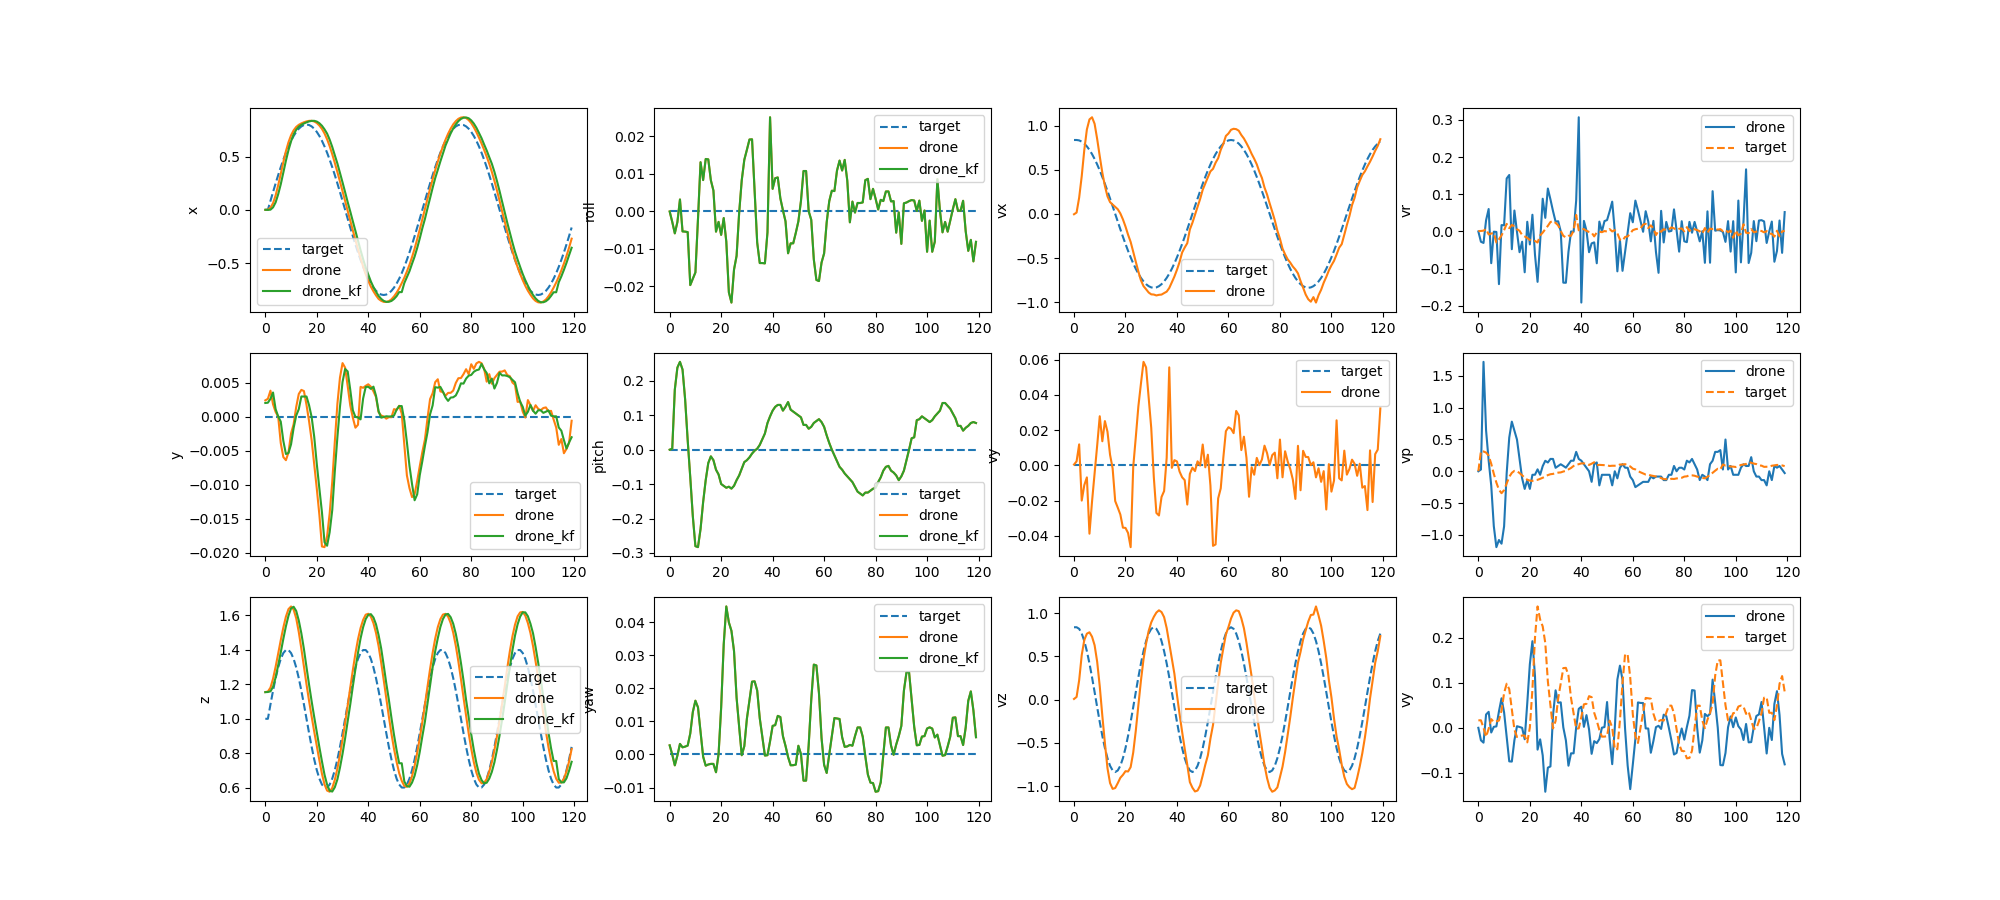
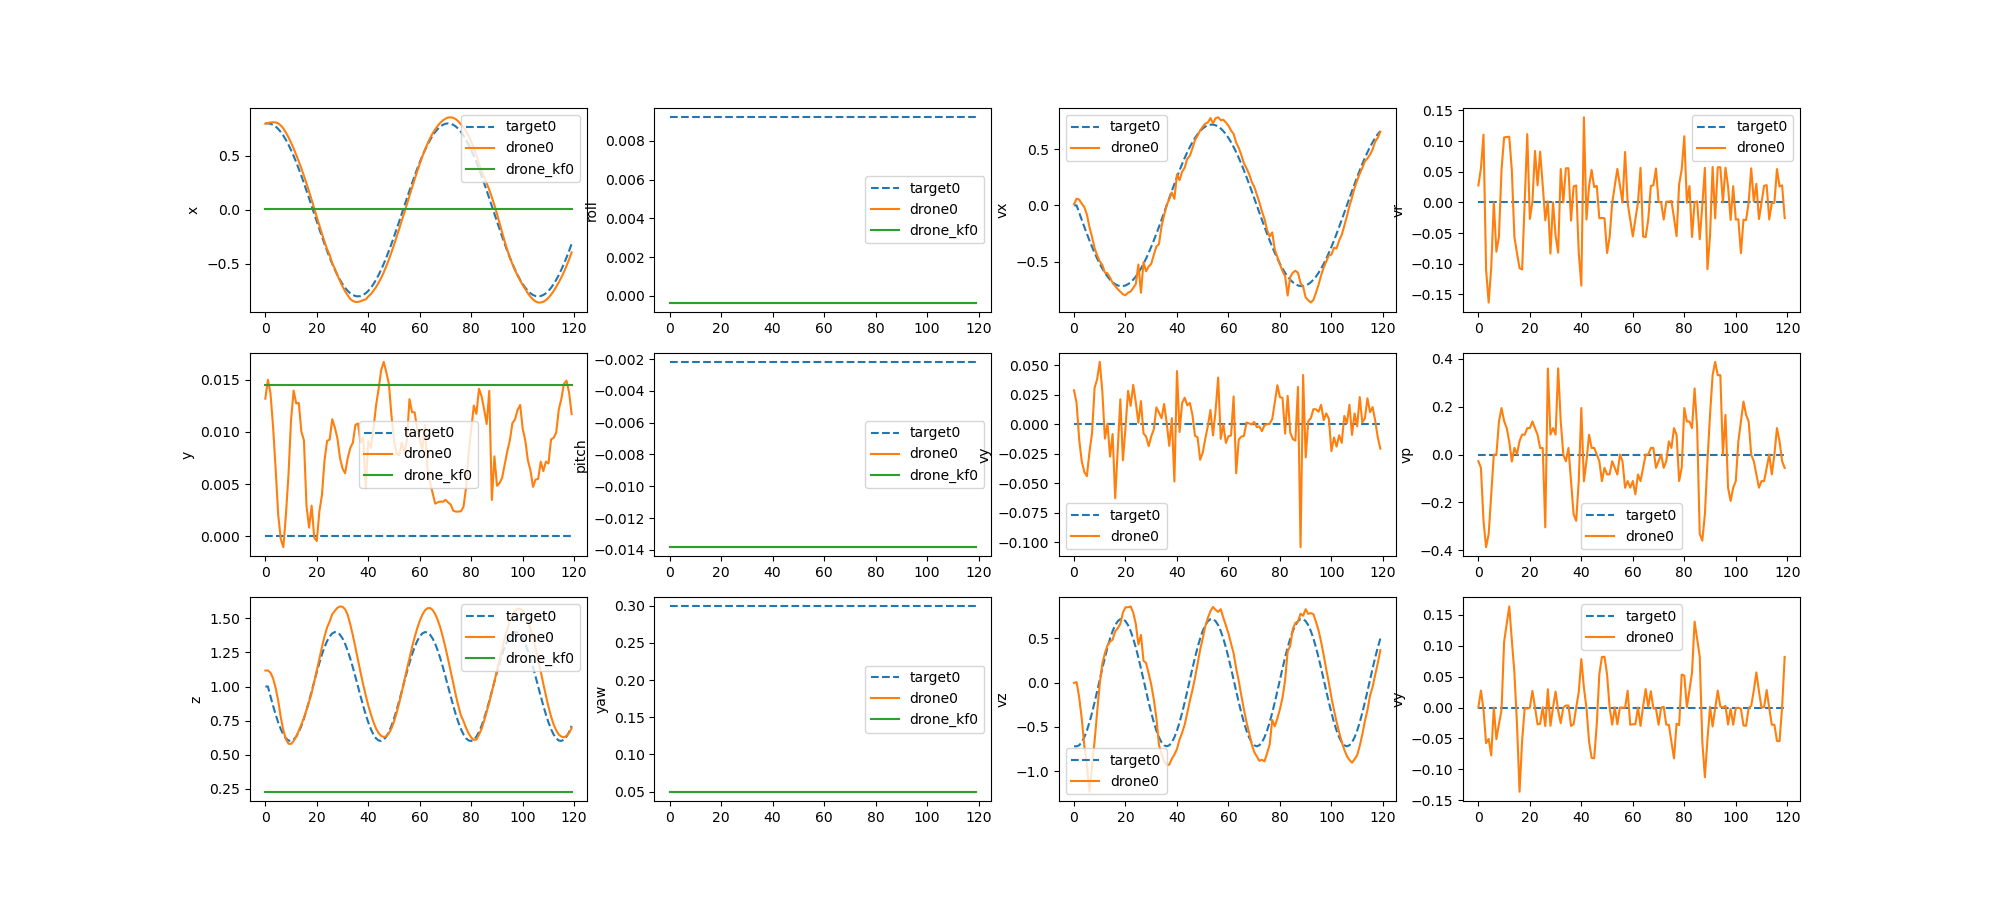
:zap: add multi-trajectory plotter

diff --git a/src/crazyswarm2/crazyflie_examples/crazyflie_examples/attitude_ctl.py b/src/crazyswarm2/crazyflie_examples/crazyflie_examples/attitude_ctl.py
@@ -199,7 +199,7 @@ class Crazyflie:
             target_pitch_rate = action[1]
             target_yaw_rate = action[2]
             # self.rpy_target = np.array([target_roll, target_pitch, target_yaw_rate])
-            self.vrpy_target = np.array([target_roll_rate, target_pitch_rate, target_yaw_rate])
+            self.rpy_target[i] = np.array([target_roll_rate, target_pitch_rate, target_yaw_rate])
             target_thrust = action[3]
             self.allcfs.crazyflies[i].cmdVelLegacy(roll=target_roll_rate/np.pi*180, pitch=target_pitch_rate/np.pi*180, yaw_rate=target_yaw_rate/np.pi*180, thrust=self.thrust2cmd(target_thrust))
         self.timeHelper.sleepForRate(self.rate)
@@ -284,15 +284,15 @@ class Crazyflie:
         return np.array(actions)
 
     def _generate_traj(self):
-        base_w = 2 * np.pi / 6.0
+        base_w = 2 * np.pi / 7.0
         t = np.arange(0, int(self.traj_timelimit*self.rate)) / self.rate
         t = np.tile(t, (3,1)).transpose()
         traj_xyz = np.zeros((self.cf_num, len(t), 3))
         traj_vxyz = np.zeros((self.cf_num, len(t), 3))
 
-        As = np.array([[0.8, 0.0, 0.4], [0.0, 0.8, 0.4], [0.4, 0.4, 0.0]])
-        ws = np.array([[base_w, base_w, base_w*2.0]]*2)
-        phases = np.array([[0,0,0], [0.0, np.pi/2, np.pi], [0.0, 0.0, 0.0]])
+        As = np.array([[0.8, 0.0, 0.4], [0.8, 0.0, 0.4], [0.4, 0.4, 0.0]])
+        ws = np.array([[base_w, base_w, base_w*2.0], [base_w, base_w, base_w*2.0], [base_w*2.0, base_w*2.0, base_w]])
+        phases = np.array([[np.pi/2,0,np.pi], [0.0, np.pi/2, np.pi], [0.0, np.pi/2, 0.0]])
 
         for i in range(self.cf_num):
             A = As[i]
@@ -300,7 +300,7 @@ class Crazyflie:
             phase = phases[i]
             traj_xyz[i] = A * np.sin(t*w+phase)
             traj_vxyz[i] = w * A * np.cos(t*w+phase)
-            traj_xyz[i] = self.world_center
+            traj_xyz[i] += self.world_center
 
         return traj_xyz, traj_vxyz
 
@@ -344,67 +344,47 @@ class Logger():
 
         # plot
         # create 3*4 subplot
+        cf_num = self.xyz_target.shape[1]
         fig, axs = plt.subplots(nrows=3, ncols=4, figsize=(20, 9))
         title_list = ['x','y','z']
         for i in range(3):
             ax = axs[i, 0]
-            ax.plot(self.xyz_target[:, i], label='target', linestyle='--')
-            ax.plot(self.xyz_drone[:, i], label='drone')
-            ax.plot(self.xyz_drone_kf[:, i], label='drone_kf')
+            for j in range(cf_num):
+                ax.plot(self.xyz_target[:, j, i], label=f'target{j}', linestyle='--')
+                ax.plot(self.xyz_drone[:, j, i], label=f'drone{j}')
+                ax.plot(self.xyz_drone_kf[:, j, i], label=f'drone_kf{j}')
             ax.set_ylabel(title_list[i])
             ax.legend()
         title_list = ['roll', 'pitch', 'yaw']
         for i in range(3):
             ax = axs[i, 1]
-            ax.plot(self.rpy_target[:, i], label='target', linestyle='--')
-            ax.plot(self.rpy_drone[:, i], label='drone')
-            ax.plot(self.rpy_drone_kf[:, i], label='drone_kf')
+            for j in range(cf_num):
+                ax.plot(self.rpy_target[:, j, i], label=f'target{j}', linestyle='--')
+                ax.plot(self.rpy_drone[:, j, i], label=f'drone{j}')
+                ax.plot(self.rpy_drone_kf[:, j, i], label=f'drone_kf{j}')
             ax.set_ylabel(title_list[i])
             ax.legend()
         title_list = ['vx', 'vy', 'vz']
         for i in range(3):
             ax = axs[i, 2]
-            ax.plot(self.vxyz_target[:, i], label='target', linestyle='--')
-            ax.plot(self.vxyz_drone[:, i], label='drone')
+            for j in range(cf_num):
+                ax.plot(self.vxyz_target[:, j, i], label=f'target{j}', linestyle='--')
+                ax.plot(self.vxyz_drone[:, j, i], label=f'drone{j}')
             ax.set_ylabel(title_list[i])
             ax.legend()
         title_list = ['vr', 'vp', 'vy']
         for i in range(3):
             ax = axs[i, 3]
-            ax.plot(self.vrpy_drone[:, i], label='drone')
-            ax.plot(self.vrpy_target[:, i], label='target', linestyle='--')
+            for j in range(cf_num):
+                ax.plot(self.vrpy_target[:, j, i], label=f'target{j}', linestyle='--')
+                ax.plot(self.vrpy_drone[:, j, i], label=f'drone{j}')
             ax.set_ylabel(title_list[i])
             ax.legend()
 
         # plt.show()
         print('mocap drift fix value: ', -self.rpy_drone.mean(axis=0))
-        plt.savefig('results/plot.png')
+        plt.savefig('/home/pcy/Documents/ros2_ws/src/crazyswarm2/crazyflie_examples/crazyflie_examples/results/plot.png')
 
-        # save all values as a csv file with pandas
-        df = pd.DataFrame({
-            'x_target': self.xyz_target[:, 0],
-            'y_target': self.xyz_target[:, 1],
-            'z_target': self.xyz_target[:, 2],
-            'roll_target': self.rpy_target[:, 0],
-            'pitch_target': self.rpy_target[:, 1],
-            'yaw_target': self.rpy_target[:, 2],
-            'vx_target': self.vxyz_target[:, 0],
-            'vy_target': self.vxyz_target[:, 1],
-            'vz_target': self.vxyz_target[:, 2],
-            'x_drone': self.xyz_drone[:, 0],
-            'y_drone': self.xyz_drone[:, 1],
-            'z_drone': self.xyz_drone[:, 2],
-            'roll_drone': self.rpy_drone[:, 0],
-            'pitch_drone': self.rpy_drone[:, 1],
-            'yaw_drone': self.rpy_drone[:, 2],
-            'vx_drone': self.vxyz_drone[:, 0],
-            'vy_drone': self.vxyz_drone[:, 1],
-            'vz_drone': self.vxyz_drone[:, 2],
-            'vr_drone': self.vrpy_drone[:, 0],
-            'vp_drone': self.vrpy_drone[:, 1],
-            'vy_drone': self.vrpy_drone[:, 2],
-        })
-        df.to_csv('results/data.csv', index=False)
     
 def main():
 
@@ -435,37 +415,38 @@ def main():
         action = cfctl.pid_controller(info) * 1.0
         obs, reward, done, info = cfctl.step(action)
 
-    # target_point = cfctl.traj_xyz[0]
-    # print('go to center', target_point)
-    # for _ in range(int(4.0 * cfctl.rate)):
-    #     info['xyz_target'] = target_point
-    #     info['vxyz_target'] = np.zeros(3)
-    #     action = cfctl.pid_controller(info) * 1.0
-    #     obs, reward, done, info = cfctl.step(action)
+    target_point = cfctl.traj_xyz[:,0]
+    print('go to center', target_point)
+    for _ in range(int(4.0 * cfctl.rate)):
+        info['xyz_target'] = target_point
+        info['vxyz_target'] = np.zeros([cfctl.cf_num, 3])
+        action = cfctl.pid_controller(info) * 1.0
+        obs, reward, done, info = cfctl.step(action)
 
-    # print('main task')
-    # obs, info = cfctl.soft_reset()
-    # for _ in range(int(12.0 * cfctl.rate)):
-    #     # PID controller
-    #     action = cfctl.pid_controller(info) * 1.0
-    #     obs, reward, done, info = cfctl.step(action)
+    print('main task')
+    obs, info = cfctl.soft_reset()
+    for _ in range(int(12.0 * cfctl.rate)):
+        # PID controller
+        action = cfctl.pid_controller(info) * 1.0
+        logger.log(info)
+        obs, reward, done, info = cfctl.step(action)
 
-    # print('to world center...')
-    # for _ in range(int(3.0*cfctl.rate)):
-    #     info['xyz_target'] = cfctl.world_center.copy()
-    #     info['vxyz_target'] = np.zeros(3)
-    #     action = cfctl.pid_controller(info)*1.0
-    #     # logger.log(info)
-    #     obs, reward, done, info = cfctl.step(action)
+    print('to world center...')
+    target_pos = np.array([cfctl.world_center]*cfctl.cf_num)
+    target_pos[:, 0] = np.arange(cfctl.cf_num) - (cfctl.cf_num-1)/2.0
+    for _ in range(int(3.0*cfctl.rate)):
+        info['xyz_target'] = target_pos
+        info['vxyz_target'] = np.zeros(3)
+        action = cfctl.pid_controller(info)*1.0
+        obs, reward, done, info = cfctl.step(action)
 
     print('landing...')
     target_point = cfctl.last_xyz_drone.copy()
-    target_point[:, 2] = 0.05
+    target_point[:, 2] = 0.02
     for _ in range(int(2.0*cfctl.rate)):
         info['xyz_target'] = target_point
         info['vxyz_target'] = np.zeros([cfctl.cf_num, 3])
         action = cfctl.pid_controller(info)*1.0
-        # logger.log(info)
         obs, reward, done, info = cfctl.step(action)
 
 
